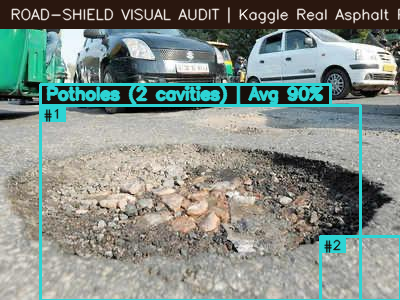
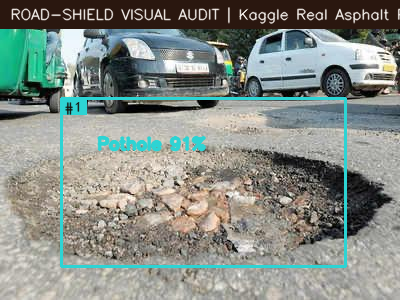
fix(vision): unify cavity bounding box, eliminate corner ghost boxes and thin slivers, rescue waterlogged basin proposals

Changed region(s): [[0.09, 0.27, 1.0, 1.0], [0.24, 0.45, 0.51, 0.51]]

diff --git a/pipeline/deep_inference_pipeline.py b/pipeline/deep_inference_pipeline.py
@@ -577,13 +577,13 @@ class DeepInferencePipeline:
                         inter = (xi1 - xi0) * (yi1 - yi0)
                         a1 = b1[2] * b1[3]
                         a2 = b2[2] * b2[3]
-                        containment = inter / float(max(1, a1))
+                        containment = inter / float(max(1, min(a1, a2)))
                         # Cross-class suppression: ASTM D6433 & IRC:82 - cavity excavation subsumes internal fracture/crack
                         if other.get("class_id") == 2 and d.get("class_id") == 1 and containment >= 0.35:
                             is_nested = True
                             break
                         # Same class containment / heavy overlap suppression
-                        if d.get("class_id") == other.get("class_id") and (containment >= 0.60 or (inter / float(max(1, a1 + a2 - inter))) >= 0.40):
+                        if d.get("class_id") == other.get("class_id") and (containment >= 0.40 or (inter / float(max(1, a1 + a2 - inter))) >= 0.35):
                             is_nested = True
                             break
                         # General high containment: candidate d is almost completely inside existing defect
@@ -1085,9 +1085,11 @@ class DeepInferencePipeline:
                 binary = cv2.morphologyEx(binary, cv2.MORPH_CLOSE, close_k)
                 cnts, _ = cv2.findContours(binary, cv2.RETR_EXTERNAL, cv2.CHAIN_APPROX_SIMPLE)
                 for c_cnt in cnts:
-                    if cv2.contourArea(c_cnt) >= 25:
+                    ca = cv2.contourArea(c_cnt)
+                    if ca >= 25:
                         hull = cv2.convexHull(c_cnt)
-                        if cv2.contourArea(hull) <= 0.25 * frame_px:
+                        ha = cv2.contourArea(hull)
+                        if ha <= 0.25 * frame_px and ha <= 3.5 * ca:
                             cv2.drawContours(binary, [hull], -1, 1, -1)
             else:
                 binary = cv2.morphologyEx(binary, cv2.MORPH_CLOSE,
@@ -1138,6 +1140,8 @@ class DeepInferencePipeline:
                             y1 = min(H, y0 + ch_max)
                     if x1 - x0 < 8 or y1 - y0 < 8:
                         continue
+                    if (seg_cls == 2 or kind == 2) and (y1 - y0 < 22 or (y1 - y0 < 28 and (x1 - x0) / float(max(1, y1 - y0)) > 2.0)):
+                        continue  # Reject thin horizontal noise slivers and micro-scuffs
                     centroid_y = (y0 + y1) / 2.0
                     if centroid_y < self.ROAD_ROI_TOP_FRACTION * H:
                         continue
@@ -1166,7 +1170,7 @@ class DeepInferencePipeline:
         return out[: self.MAX_COMPONENTS]
 
     def _merge_overlapping_potholes(self, props, W, H):
-        """Merge truly overlapping duplicate pothole proposals (IoU >= 0.40 or containment >= 0.70)."""
+        """Merge truly overlapping duplicate or fractured crater rim pothole proposals."""
         pot = [b for b in props if b[5] == 2]
         rest = [b for b in props if b[5] != 2]
         merged = True
@@ -1175,30 +1179,49 @@ class DeepInferencePipeline:
             for i in range(len(pot)):
                 for j in range(i + 1, len(pot)):
                     a, b = pot[i], pot[j]
-                    xi0, yi0 = max(a[0], b[0]), max(a[1], b[1])
-                    xi1, yi1 = min(a[0] + a[2], b[0] + b[2]), min(a[1] + a[3], b[1] + b[3])
+                    x1, y1, w1, h1 = a[:4]
+                    x2, y2, w2, h2 = b[:4]
+                    xi0, yi0 = max(x1, x2), max(y1, y2)
+                    xi1, yi1 = min(x1 + w1, x2 + w2), min(y1 + h1, y2 + h2)
                     inter_w = max(0, xi1 - xi0)
                     inter_h = max(0, yi1 - yi0)
+
+                    comb_x0 = min(x1, x2)
+                    comb_y0 = min(y1, y2)
+                    comb_w = max(x1 + w1, x2 + w2) - comb_x0
+                    comb_h = max(y1 + h1, y2 + h2) - comb_y0
+                    comb_area = comb_w * comb_h
+
+                    if comb_area > int(0.42 * W * H):
+                        continue
+                    if comb_w > int(0.85 * W) or comb_h > int(0.65 * H):
+                        continue
+
                     is_merge = False
                     if inter_w > 0 and inter_h > 0:
                         inter = inter_w * inter_h
-                        a1 = a[2] * a[3]
-                        a2 = b[2] * b[3]
+                        a1 = w1 * h1
+                        a2 = w2 * h2
                         iou = inter / float(a1 + a2 - inter)
                         containment = inter / float(min(a1, a2))
-                        if iou >= 0.35 or containment >= 0.60:
+                        if iou >= 0.18 or containment >= 0.30:
+                            is_merge = True
+
+                    if not is_merge:
+                        gap_x = max(0, xi0 - xi1) if xi0 > xi1 else 0
+                        gap_y = max(0, yi0 - yi1) if yi0 > yi1 else 0
+                        # Fragments of the same crater rim across an interior gravel/water basin gap
+                        if inter_w >= int(0.18 * min(w1, w2)) and gap_y <= 55:
+                            is_merge = True
+                        elif inter_h >= int(0.18 * min(h1, h2)) and gap_x <= 55:
                             is_merge = True
 
                     if is_merge:
-                        x0, y0 = min(a[0], b[0]), min(a[1], b[1])
-                        x1, y1 = max(a[0] + a[2], b[0] + b[2]), max(a[1] + a[3], b[1] + b[3])
-                        if ((x1 - x0) * (y1 - y0)) > int(0.55 * W * H):
-                            continue
                         wa, wb = a[8] or 0.0, b[8] or 0.0
-                        mp = round((a[7] * wa + b[7] * wb) / (wa + wb), 4) if (wa + wb) > 0 else a[7]
-                        pot[i] = [x0, y0, x1 - x0, y1 - y0, a[4] + b[4], 2, "segmentation", mp,
+                        mp = round((a[7] * wa + b[7] * wb) / (wa + wb), 4) if (wa + wb) > 0 else max(a[7], b[7])
+                        pot[i] = [comb_x0, comb_y0, comb_w, comb_h, a[4] + b[4], 2, "segmentation", mp,
                                   round(wa + wb, 5),
-                                  ((x1 - x0) * (y1 - y0)) / float(W * H) > self.MAX_COMPONENT_BOX_FRACTION]
+                                  comb_area / float(W * H) > self.MAX_COMPONENT_BOX_FRACTION]
                         del pot[j]
                         merged = True
                         break
@@ -1221,7 +1244,9 @@ class DeepInferencePipeline:
     def _can_merge_defects(b1, b2, W, H):
         comb_w = max(b1[0] + b1[2], b2[0] + b2[2]) - min(b1[0], b2[0])
         comb_h = max(b1[1] + b1[3], b2[1] + b2[3]) - min(b1[1], b2[1])
-        if (comb_w * comb_h) > int(0.25 * W * H):
+        if (comb_w * comb_h) > int(0.42 * W * H):
+            return False
+        if comb_w > int(0.85 * W) or comb_h > int(0.65 * H):
             return False
         xi0, yi0 = max(b1[0], b2[0]), max(b1[1], b2[1])
         xi1, yi1 = min(b1[0] + b1[2], b2[0] + b2[2]), min(b1[1] + b1[3], b2[1] + b2[3])
@@ -1233,7 +1258,7 @@ class DeepInferencePipeline:
             a2 = b2[2] * b2[3]
             iou = inter / float(a1 + a2 - inter)
             containment = inter / float(min(a1, a2))
-            if iou >= 0.40 or containment >= 0.70:
+            if iou >= 0.20 or containment >= 0.35:
                 return True
         return False
 
@@ -1298,7 +1323,7 @@ class DeepInferencePipeline:
         active_px = int((sub_pp >= thresh).sum())
         min_active = max(18, int(sub_pp.size * 0.025))
         min_p_peak = 0.45 if cls_id == 2 else 0.50
-        if active_px < min_active or float(sub_pp.max()) < min_p_peak or float(sub_pp.mean()) < 0.08:
+        if active_px < min_active or float(sub_pp.max()) < min_p_peak or float(sub_pp.mean()) < 0.035:
             return None
         roi_crop = img_np[int(H * self.ROAD_ROI_TOP_FRACTION):, :]
         if roi_crop.size == 0:

diff --git a/models/defect_segmenter.py b/models/defect_segmenter.py
@@ -99,37 +99,28 @@ def mask_from_proba(proba, work_shape, orig_shape, thresholds, min_blob_px=12, i
         if binary.sum() == 0:
             continue
         if cls == CLASS_POTHOLE:
-            # Waterlogged crater basin infill: connect broken rim fragments with internal standing water
-            if image_rgb is not None:
-                try:
-                    work_img = cv2.resize(_as_uint8_rgb(image_rgb), (w, h), interpolation=cv2.INTER_AREA)
-                    gray = cv2.cvtColor(work_img, cv2.COLOR_RGB2GRAY)
-                    road_gray = gray[int(h * 0.38):, :]
-                    asphalt_val = float(np.percentile(road_gray, 25))
-                    puddle = (gray > asphalt_val + 26)
-                    puddle[:int(h * 0.38), :] = 0
-                    puddle = cv2.morphologyEx(puddle.astype(np.uint8), cv2.MORPH_OPEN, cv2.getStructuringElement(cv2.MORPH_RECT, (3, 3)))
-                    k_touch = cv2.getStructuringElement(cv2.MORPH_ELLIPSE, (5, 5))
-                    rim_touch = cv2.dilate(binary, k_touch)
-                    num_p, p_lab, p_st, _ = cv2.connectedComponentsWithStats(puddle, 8)
-                    for pi in range(1, num_p):
-                        p_area = p_st[pi, cv2.CC_STAT_AREA]
-                        if 25 <= p_area <= int(0.25 * frame_px):
-                            p_mask = (p_lab == pi)
-                            if (p_mask & (rim_touch > 0)).any():
-                                binary[p_mask] = 1
-                except Exception:
-                    pass
+            # Multi-scale morphological closing: bridges broken crater rims across specular highlights
+            k_close = cv2.getStructuringElement(cv2.MORPH_ELLIPSE, (11, 11))
+            closed = cv2.morphologyEx(binary, cv2.MORPH_CLOSE, k_close)
 
-            # Convex hull infill for each distinct crater: fills internal specular reflections within the cavity footprint
-            cnts, _ = cv2.findContours(binary, cv2.RETR_EXTERNAL, cv2.CHAIN_APPROX_SIMPLE)
+            # Enclosed hole flood fill: fills interior water basins strictly trapped inside the cavity rim
+            padded = np.pad(closed, 1, mode="constant", constant_values=0)
+            ff_fill = np.zeros((padded.shape[0] + 2, padded.shape[1] + 2), dtype=np.uint8)
+            cv2.floodFill(padded, ff_fill, (0, 0), 255)
+            interior_holes = (padded[1:-1, 1:-1] == 0).astype(np.uint8)
+            if 0 < int(interior_holes.sum()) <= int(0.25 * frame_px):
+                closed = closed | interior_holes
+
+            # Convex hull closing for each distinct crater contour: bridges concave horseshoe openings without spilling outside the contour envelope
+            cnts, _ = cv2.findContours(closed, cv2.RETR_EXTERNAL, cv2.CHAIN_APPROX_SIMPLE)
             for c_cnt in cnts:
                 ca = cv2.contourArea(c_cnt)
                 if ca >= 25:
                     hull = cv2.convexHull(c_cnt)
                     ha = cv2.contourArea(hull)
-                    if ha <= 0.25 * frame_px:
-                        cv2.drawContours(binary, [hull], -1, 1, -1)
+                    if ha <= 0.25 * frame_px and ha <= 3.5 * ca:
+                        cv2.drawContours(closed, [hull], -1, 1, -1)
+            binary = closed
 
         n, comp, stats, _cent = cv2.connectedComponentsWithStats(binary, connectivity=8)
         for i in range(1, n):
